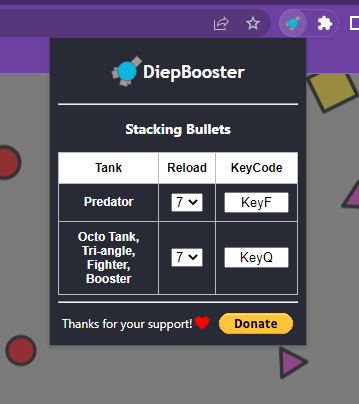
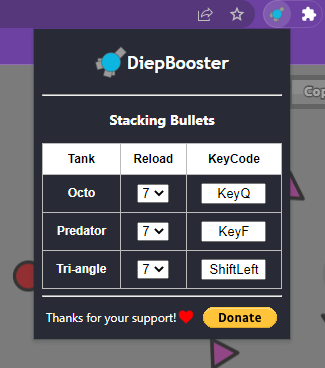
improve performance

diff --git a/stackingBullets.js b/stackingBullets.js
@@ -1,6 +1,7 @@
 let mouseX, mouseY, frameRequest, isTankStacking, isArtificialMouseMove;
 
-const Angle_135_Degrees = Math.PI * 135 / 180;
+const { PI, sin, cos } = Math;
+const Angle_135_Degrees = PI * 135 / 180;
 
 const canvas = document.getElementById('canvas');
 const target = document.getElementById('aa_main');
@@ -42,20 +43,20 @@ const group135Stacking = (reloadSpeedMs) => {
     return window.cancelAnimationFrame(frameRequest);
   }
 
+  const centerX = canvas.width / 2;
+  const centerY = canvas.height / 2;
+
   const artificialMouseMove = (x) => {
-    const angle = Math.floor(x / reloadSpeedMs) % 2 ? Angle_135_Degrees : 0;
+    const angle = ((x / reloadSpeedMs) >> 0) % 2 ? Angle_135_Degrees : 0;
 
-    const sin = Math.sin(angle);
-    const cos = Math.cos(angle);
-
-    const centerX = canvas.width / 2;
-    const centerY = canvas.height / 2;
+    const sine = sin(angle);
+    const cosine = cos(angle);
 
     const diffX = mouseX - centerX;
     const diffY = mouseY - centerY;
 
-    const clientX = cos * diffX - sin * diffY + centerX;
-    const clientY = sin * diffX + cos * diffY + centerY;
+    const clientX = cosine * diffX - sine * diffY + centerX;
+    const clientY = sine * diffX + cosine * diffY + centerY;
 
     isArtificialMouseMove = true;
     canvas.dispatchEvent(new MouseEvent('mousemove', { clientX, clientY }));
@@ -83,8 +84,9 @@ const onMouseMove = (e) => {
 
 const onKeyUp = (e) => {
   switch (e.code) {
+    case tanksInfo.octo.keyCode: group135Stacking(tanksInfo.octo.reloadSpeedMs); break;
+    case tanksInfo.triangle.keyCode: group135Stacking(tanksInfo.triangle.reloadSpeedMs); break;
     case tanksInfo.predator.keyCode: predatorStacking(tanksInfo.predator.reloadSpeedMs); break;
-    case tanksInfo.group135.keyCode: group135Stacking(tanksInfo.group135.reloadSpeedMs); break;
   }
 };
 

diff --git a/popup.html b/popup.html
@@ -18,6 +18,24 @@
       <th>KeyCode</th>
     </tr>
     <tr>
+      <th>Octo</th>
+      <th>
+        <select id="octo-bulletReload">
+          <option value="0">0</option>
+          <option value="1">1</option>
+          <option value="2">2</option>
+          <option value="3">3</option>
+          <option value="4">4</option>
+          <option value="5">5</option>
+          <option value="6">6</option>
+          <option value="7">7</option>
+        </select>
+      </th>
+      <th>
+        <input size="4" id="octo-keyCode" spellcheck="false">
+      </th>
+    </tr>
+    <tr>
       <th>Predator</th>
       <th>
         <select id="predator-bulletReload">
@@ -36,9 +54,9 @@
       </th>
     </tr>
     <tr>
-      <th>Octo Tank, Tri-angle, Fighter, Booster</th>
+      <th>Tri-angle</th>
       <th>
-        <select id="group135-bulletReload">
+        <select id="triangle-bulletReload">
           <option value="0">0</option>
           <option value="1">1</option>
           <option value="2">2</option>
@@ -50,7 +68,7 @@
         </select>
       </th>
       <th>
-        <input size="4" id="group135-keyCode" spellcheck="false">
+        <input size="4" id="triangle-keyCode" spellcheck="false">
       </th>
     </tr>
   </table>

diff --git a/background.js b/background.js
@@ -7,14 +7,19 @@ chrome.runtime.onInstalled.addListener(() => {
   });
 
   chrome.storage.local.set({
+    octo: {
+      bulletReload: 7,
+      keyCode: 'KeyQ',
+      reloadSpeedMs: 160,
+    },
     predator: {
       bulletReload: 7,
       keyCode: 'KeyF',
       reloadSpeedMs: 960,
     },
-    group135: {
+    triangle: {
       bulletReload: 7,
-      keyCode: 'KeyQ',
+      keyCode: 'ShiftLeft',
       reloadSpeedMs: 160,
     },
   });
